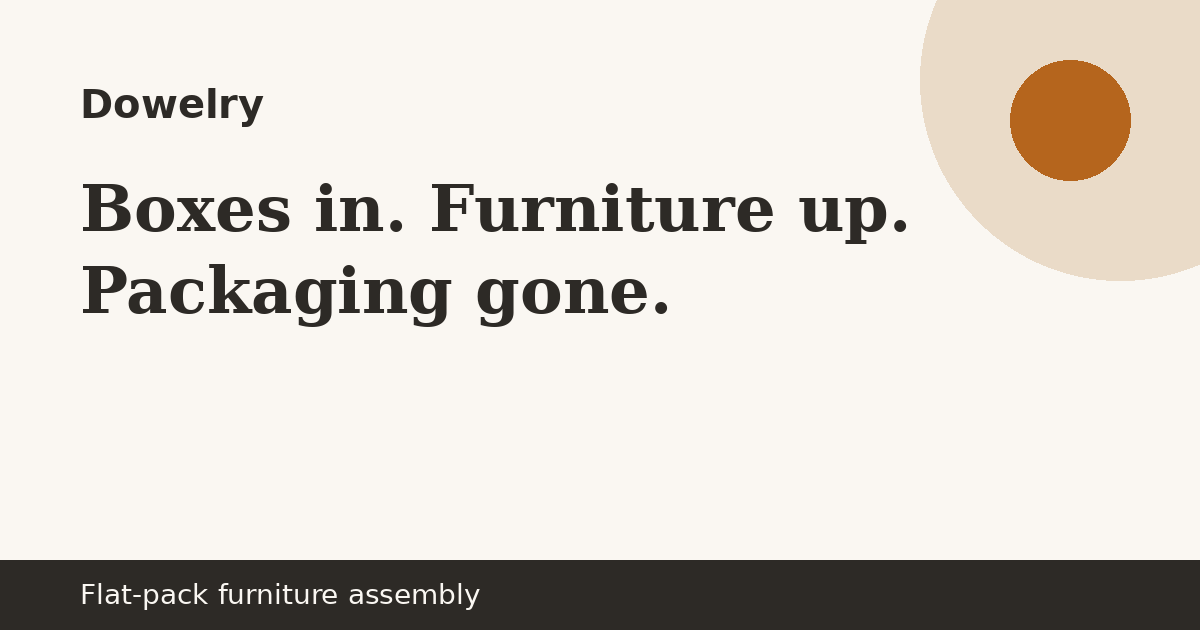
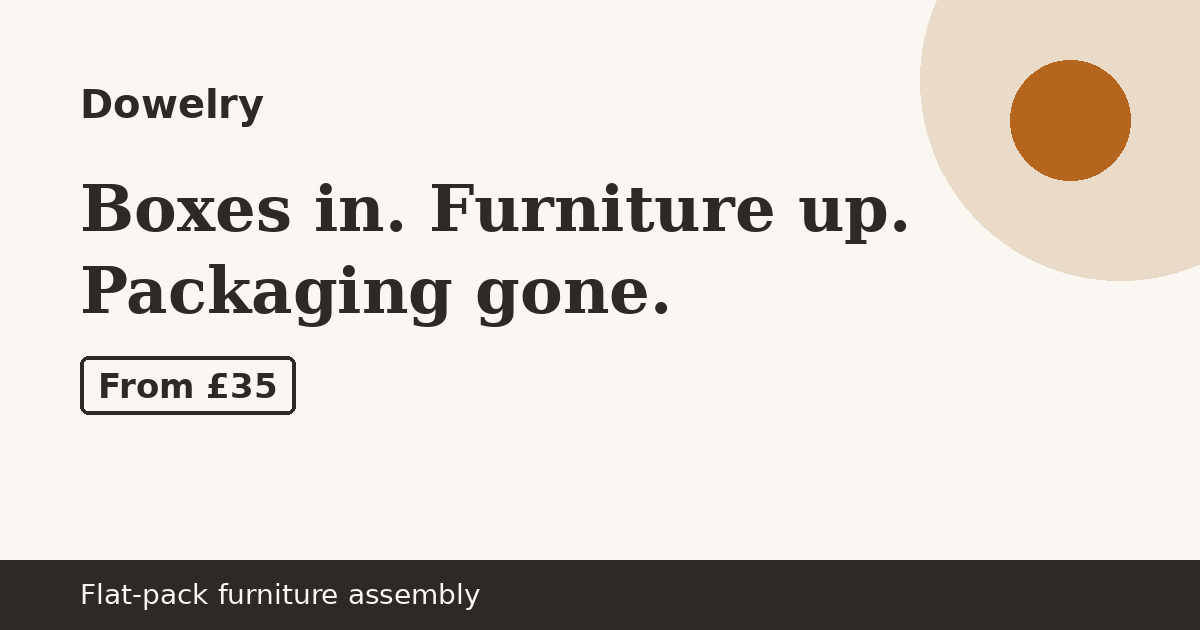
Publish site 2026-10-21 08:27 BST

Changed region(s): [[0.0617, 0.5429, 0.2467, 0.6635]]

diff --git a/index.html b/index.html
@@ -3,7 +3,7 @@
 <head>
 <meta charset="utf-8">
 <meta name="viewport" content="width=device-width, initial-scale=1">
-<meta http-equiv="Content-Security-Policy" content="default-src 'self'; img-src 'self' data: https://localreplyloop.goatcounter.com; style-src 'self'; script-src 'self'; font-src 'self'; connect-src 'self' https://formsubmit.co; form-action 'self'; base-uri 'self'; object-src 'none'">
+<meta http-equiv="Content-Security-Policy" content="default-src 'self'; img-src 'self' data: https://localreplyloop.goatcounter.com; style-src 'self'; script-src 'self'; font-src 'self'; connect-src 'self'; form-action 'self'; base-uri 'self'; object-src 'none'">
 <meta name="referrer" content="strict-origin-when-cross-origin">
 <title>Dowelry: Boxes in. Furniture up. Packaging gone</title>
 <meta name="description" content="Flat-pack assembly at your home, wall-fixing where the furniture requires it, and all packaging taken away.">
@@ -21,21 +21,14 @@
 </head>
 <body>
 <a class="skip" href="#main">Skip to content</a>
-<header class="band"><div class="wrap top"><a class="brand" href="./"><svg viewBox="0 0 64 64" aria-hidden="true" width="34" height="34"><path d="M32 0 64 32 32 64 0 32z" fill="#B5651D"/><text x="32" y="43" text-anchor="middle" font-family="Georgia, serif" font-weight="700" font-size="30" fill="#111111">D</text><circle cx="50" cy="50" r="6" fill="#FAF7F2"/></svg>Dowelry</a><nav aria-label="Primary"><a href="#how">How it works</a><a href="#faq">Questions</a><a href="#contact">Contact</a></nav></div><section class="hero"><div class="wrap"><div><span class="draft">Taking enquiries ahead of launch; no bookings are confirmed yet. We&#x27;ll reply about availability.</span><br><span class="eyebrow">Local service · pre-launch · Flat-pack furniture assembly</span><h1>Boxes in. Furniture up. Packaging gone.</h1><p class="lede">Send us the list or the product links. We quote a fixed price for the lot, build it properly, fix tall pieces to the wall where the instructions say to, and take the cardboard away.</p><div class="ctas"><a class="btn" href="#contact" data-cta="hero">Send an enquiry</a><a class="btn ghost" href="#faq" data-cta="hero-secondary">Questions</a></div></div><div class="art"><svg viewBox="0 0 400 400" role="img" aria-label="Decorative pattern" class="motif" preserveAspectRatio="xMidYMid slice"><rect x="30" y="330" width="58" height="40" fill="#EADBC8"/><rect x="88" y="278" width="58" height="92" fill="#FAF7F2"/><rect x="146" y="226" width="58" height="144" fill="#EADBC8"/><rect x="204" y="174" width="58" height="196" fill="#FAF7F2"/><rect x="262" y="122" width="58" height="248" fill="#EADBC8"/><rect x="320" y="70" width="58" height="300" fill="#B5651D"/></svg></div></div></section></header>
+<header class="band"><div class="wrap top"><a class="brand" href="./"><svg viewBox="0 0 64 64" aria-hidden="true" width="34" height="34"><path d="M32 0 64 32 32 64 0 32z" fill="#B5651D"/><text x="32" y="43" text-anchor="middle" font-family="Georgia, serif" font-weight="700" font-size="30" fill="#111111">D</text><circle cx="50" cy="50" r="6" fill="#FAF7F2"/></svg>Dowelry</a><nav aria-label="Primary"><a href="#how">How it works</a><a href="#faq">Questions</a><a href="#contact">Contact</a></nav></div></header>
 <main id="main">
+<div class="band"><section class="hero"><div class="wrap"><div><span class="draft">Taking enquiries ahead of launch. No bookings are confirmed yet.</span><br><span class="eyebrow">Local service · pre-launch · Flat-pack furniture assembly</span><h1>Boxes in. Furniture up. Packaging gone.</h1><p class="lede">Send us the list or the product links. We quote a fixed price for the lot. Once launched, we&#x27;ll build it properly, fix tall pieces to the wall where the instructions say to, and take the cardboard away.</p><div class="ctas"><a class="btn" href="#contact" data-cta="hero">Send an enquiry</a><a class="btn ghost" href="#faq" data-cta="hero-secondary">Questions</a></div></div><div class="art"><svg viewBox="0 0 400 400" aria-hidden="true" focusable="false" class="motif"><rect x="60" y="90" width="170" height="230" rx="6" fill="#EADBC8"/><rect x="90" y="70" width="170" height="230" rx="6" fill="#FAF7F2"/><circle cx="120" cy="110" r="8" fill="#2D2A26"/><circle cx="230" cy="110" r="8" fill="#2D2A26"/><circle cx="120" cy="260" r="8" fill="#2D2A26"/><circle cx="230" cy="260" r="8" fill="#2D2A26"/><path d="M290 110 v150 h50" fill="none" stroke="#B5651D" stroke-width="16" stroke-linecap="round" stroke-linejoin="round"/><rect x="280" y="300" width="14" height="70" rx="7" fill="#EADBC8"/><rect x="306" y="300" width="14" height="70" rx="7" fill="#B5651D"/><rect x="332" y="300" width="14" height="70" rx="7" fill="#EADBC8"/></svg></div></div></section></div>
 <section class="tint" id="how"><div class="wrap"><span class="eyebrow">How it works</span><h2>Flat-pack assembly at your home, wall-fixing where the furniture requires it, and all packaging taken away.</h2><div class="steps"><div class="step"><h3>Send your list</h3><p>Product names or links are perfect. We check the build times.</p></div><div class="step"><h3>Fixed price</h3><p>One price for everything on the list, packaging removal included.</p></div><div class="step"><h3>Once launched: built and fixed</h3><p>Tall units anchored to the wall where required, then a final check with you.</p></div></div></div></section>
 <section><div class="wrap"><span class="eyebrow">Who it is for</span><h2>For people moving into new homes or flats with boxes of furniture they don&#x27;t want to build.</h2><div class="points"><div class="point"><h3>Anti-tip fixing</h3><p>We fit the wall restraints that come with tall furniture, using fixings suited to your wall.</p></div><div class="point"><h3>Packaging removed</h3><p>No mountain of cardboard left in your hallway.</p></div><div class="point"><h3>Any brand</h3><p>IKEA, Wayfair, Argos, Dunelm and others.</p></div></div></div></section>
-<section class="tint" id="price"><div class="wrap"><span class="eyebrow">Prices</span><div class="pricebox"><p class="price">From £35 for a small item; wardrobes from £70 (guide prices; we quote from your list)</p><p>Guide price. Taking enquiries ahead of launch; no bookings are confirmed yet. We&#x27;ll confirm a fixed price and availability by email. Nothing is sold or paid for on this website.</p></div></div></section>
+<section class="tint" id="price"><div class="wrap"><span class="eyebrow">Prices</span><div class="pricebox"><p class="price">From £35 for a small item; wardrobes from £70 (guide prices; we quote from your list)</p><p>Guide price. Taking enquiries ahead of launch. No bookings are confirmed yet. Price and availability aren’t confirmed yet. Nothing is sold or paid for on this website.</p></div></div></section>
 <section id="faq"><div class="wrap"><span class="eyebrow">Questions</span><h2>Common questions</h2><details><summary>Can you assemble beds and bunk beds?</summary><p>Yes. Bunk beds are checked against the manufacturer&#x27;s safety instructions.</p></details><details><summary>Do you mount TVs?</summary><p>Not at the moment. Furniture assembly only.</p></details><details><summary>What if a part is missing?</summary><p>We stop that item and tell you which part to request. We won&#x27;t improvise a fix that isn&#x27;t safe.</p></details><p class="fine" style="margin-top:18px">Dowelry assembles furniture. We do not do electrical, plumbing or gas work.</p></div></section>
-<section class="tint" id="contact"><div class="wrap contact-grid"><div><span class="eyebrow">Contact</span><h2>Send an enquiry</h2><p>Dowelry is new and run by one person. Every message is read and answered by email, usually within two working days.</p><p>Email: <a href="mailto:localreply+dowelry@agentmail.to">localreply+dowelry@agentmail.to</a></p></div><form class="form" data-contact data-formsubmit="localreply+dowelry@agentmail.to" data-email="localreply+dowelry@agentmail.to" data-subject="Dowelry enquiry" novalidate>
-<div><label for="f-name">Your name</label><input id="f-name" name="name" autocomplete="name" required></div>
-<div><label for="f-email">Email</label><input id="f-email" name="email" type="email" autocomplete="email" required></div>
-<div><label for="f-postcode">Postcode or town</label><input id="f-postcode" name="postcode" autocomplete="postal-code"></div><div><label for="f-plan">About</label><select id="f-plan" name="plan"><option value="One or two items">One or two items</option><option value="A room&#x27;s worth">A room&#x27;s worth</option><option value="Whole move-in">Whole move-in</option></select></div>
-<div><label for="f-message">Message</label><textarea id="f-message" name="message"></textarea></div>
-<p class="draft">Taking enquiries ahead of launch; no bookings are confirmed yet. We&#x27;ll reply about availability.</p><p class="hint">Your message goes to our inbox through FormSubmit (formsubmit.co), our form-delivery provider. If that fails, your own email app opens instead. See our <a href="privacy.html">privacy notice</a>.</p>
-<button class="btn" type="submit">Send an enquiry</button>
-<p class="form-status" role="status" aria-live="polite"></p>
-</form></div></section>
+<section class="tint" id="contact"><div class="wrap contact-grid"><div><span class="eyebrow">Contact</span><h2>Send an enquiry</h2><p>Dowelry is new and run by one person. Messages go to our inbox. We can’t promise a reply or a timeframe yet.</p><p>Email: <a href="mailto:localreply+dowelry@agentmail.to">localreply+dowelry@agentmail.to</a></p></div><div class="form contact-mail"><p><a class="btn" href="mailto:localreply+dowelry@agentmail.to?subject=%5BDowelry%5D%20Enquiry" data-cta="enquire">Email Dowelry</a></p><p class="draft">Taking enquiries ahead of launch. No bookings are confirmed yet.</p><p class="hint">This opens your own email app. Nothing is sent through this website. See our <a href="privacy.html">privacy notice</a>.</p></div></div></section>
 </main><footer><div class="wrap"><p>Operated by a UK sole trader trading as Dowelry. Contact: localreply+dowelry@agentmail.to. Postal address available on written request.</p>
 <p><a href="privacy.html">Privacy</a><a href="terms.html">Terms</a><a href="./#contact">Contact</a></p>
 <p class="fine">Dowelry assembles furniture. We do not do electrical, plumbing or gas work.</p></div></footer>

diff --git a/assets/site.css b/assets/site.css
@@ -1,6 +1,6 @@
 @font-face{font-family:'Source Serif 4';font-weight:600;font-style:normal;font-display:swap;src:url(fonts/source-serif-4-latin-600-normal.woff2) format('woff2')}
 @font-face{font-family:'Source Serif 4';font-weight:700;font-style:normal;font-display:swap;src:url(fonts/source-serif-4-latin-700-normal.woff2) format('woff2')}
-:root{--ink:#2D2A26;--paper:#FAF7F2;--acc:#B5651D;--acc-text:#9A5619;--on-acc:#111111;--soft:#EADBC8;--on-ink:#FAF7F2;--r:16px;--br:16px;--head:'Source Serif 4', Georgia, serif;--body:Georgia, serif}
+:root{--ink:#2D2A26;--paper:#FAF7F2;--acc:#B5651D;--acc-text:#8C4E17;--on-acc:#111111;--acc-btn:#BE6A1E;--soft:#EADBC8;--on-ink:#FAF7F2;--r:16px;--br:16px;--head:'Source Serif 4', Georgia, serif;--body:Georgia, serif}
 *,*::before,*::after{box-sizing:border-box}html{scroll-behavior:smooth}@media (prefers-reduced-motion:reduce){html{scroll-behavior:auto}*{transition:none!important}}
 body{margin:0;font-family:var(--body);color:var(--ink);background:var(--paper);line-height:1.6;font-size:17px;-webkit-font-smoothing:antialiased}
 h1,h2,h3{font-family:var(--head);line-height:1.15;margin:0 0 .5em;letter-spacing:-.01em}h1{font-size:clamp(2.1rem,5vw,3.6rem)}h2{font-size:clamp(1.5rem,3vw,2.2rem)}h3{font-size:1.15rem}
@@ -9,11 +9,11 @@ p{margin:0 0 1em}a{color:var(--ink);text-decoration-color:var(--acc);text-underl
 :focus-visible{outline:3px solid var(--acc);outline-offset:2px}
 .top{display:flex;align-items:center;justify-content:space-between;padding:18px 0;gap:16px}.brand{display:flex;align-items:center;gap:10px;font-family:var(--head);font-weight:700;font-size:1.25rem;text-decoration:none}
 .top nav a{margin-left:18px;font-size:.95rem;text-decoration:none}.top nav a:hover{text-decoration:underline}
-.btn{display:inline-block;background:var(--acc);color:var(--on-acc);padding:13px 22px;border-radius:var(--br);font-weight:600;text-decoration:none;border:2px solid var(--acc);cursor:pointer;font:inherit;font-weight:600}
-.btn:hover{filter:brightness(.94)}.btn.ghost{background:transparent;color:var(--ink);border-color:var(--ink)}
+.btn{display:inline-block;background:var(--acc-btn);color:var(--on-acc);padding:13px 22px;border-radius:var(--br);font-weight:600;text-decoration:none;border:2px solid var(--acc-btn);cursor:pointer;font:inherit;font-weight:600}
+.btn:hover{filter:none;box-shadow:inset 0 0 0 2px currentColor}.btn.ghost{background:transparent;color:var(--ink);border-color:var(--ink)}
 .eyebrow{display:inline-block;font-size:.8rem;letter-spacing:.12em;text-transform:uppercase;font-weight:600;color:var(--acc-text);margin-bottom:12px}
 .hero{padding:48px 0 64px}.hero .lede{font-size:1.15rem;max-width:40em}.ctas{display:flex;gap:12px;flex-wrap:wrap;margin-top:22px}
-.motif{width:100%;height:auto;max-width:420px;display:block}
+.motif{width:100%;height:auto;max-width:420px;display:block}.art{margin:0}
 .draft{display:inline-block;background:var(--soft);border:1px dashed var(--ink);padding:3px 10px;border-radius:999px;font-size:.82rem;font-weight:600;margin-bottom:14px}
 section{padding:56px 0}.tint{background:var(--soft)}
 .steps{display:grid;grid-template-columns:repeat(auto-fit,minmax(220px,1fr));gap:22px;counter-reset:s}
@@ -24,11 +24,11 @@ section{padding:56px 0}.tint{background:var(--soft)}
 details{border-bottom:1px solid color-mix(in srgb,var(--ink) 18%,transparent);padding:14px 0}summary{cursor:pointer;font-weight:600}details p{margin-top:10px}
 .form{display:grid;gap:14px;max-width:620px}.form label{font-weight:600;font-size:.95rem;display:block;margin-bottom:4px}
 .form input,.form textarea,.form select{width:100%;padding:12px;border:1.5px solid color-mix(in srgb,var(--ink) 40%,transparent);border-radius:calc(var(--r)/2);font:inherit;background:#fff;color:#111}
-.form textarea{min-height:120px}.hint,.fine{font-size:.88rem;opacity:.85}.form-status{font-weight:600}
-.contact-grid{display:grid;grid-template-columns:1fr 1.2fr;gap:40px}@media(max-width:800px){.contact-grid{grid-template-columns:1fr}.top nav{display:none}}
+.form textarea{min-height:120px}.hint,.fine{font-size:.88rem}.form-status{font-weight:600}
+.contact-grid{display:grid;grid-template-columns:1fr 1.2fr;gap:40px}@media(max-width:800px){.contact-grid{grid-template-columns:1fr}.top nav a:not([href="#contact"]){display:none}.top nav a{margin-left:0;padding:10px 0;font-weight:600}}
 footer{padding:36px 0 48px;font-size:.9rem;border-top:1px solid color-mix(in srgb,var(--ink) 15%,transparent)}footer a{margin-right:14px}
 .tool{background:var(--paper);border:2px solid var(--ink);border-radius:var(--r);padding:26px;max-width:640px}.tool .row{display:grid;grid-template-columns:1fr 140px;gap:12px;align-items:center;margin-bottom:10px}
 .tool input[type=number]{padding:10px;border:1.5px solid var(--ink);border-radius:8px;font:inherit;width:100%}.result{margin-top:16px;padding:16px;background:var(--soft);border-radius:calc(var(--r)/2);min-height:3em}
 .check h3{margin-top:18px}.check label{display:flex;gap:10px;align-items:flex-start;padding:6px 0}.check input{width:20px;height:20px;accent-color:var(--acc)}
 .legal{max-width:760px}.legal h2{font-size:1.3rem;margin-top:1.6em}
-.band{background:var(--ink);color:var(--on-ink)}.band a{color:var(--on-ink)}.band .btn.ghost{color:var(--on-ink);border-color:var(--on-ink)}.band .eyebrow{color:var(--on-ink)}.hero .wrap{display:grid;grid-template-columns:1.2fr .8fr;gap:40px;align-items:center}@media(max-width:800px){.hero .wrap{grid-template-columns:1fr}}.band .draft{color:var(--ink)}
+.band{background:var(--ink);color:var(--on-ink)}.band a{color:var(--on-ink)}.band .btn.ghost{color:var(--on-ink);border-color:var(--on-ink)}.band .btn:not(.ghost){color:var(--on-acc)}.band .eyebrow{color:var(--on-ink)}.hero .wrap{display:grid;grid-template-columns:1.2fr .8fr;gap:40px;align-items:center}@media(max-width:800px){.hero .wrap{grid-template-columns:1fr}}.band .draft{color:var(--ink)}

diff --git a/privacy.html b/privacy.html
@@ -3,7 +3,7 @@
 <head>
 <meta charset="utf-8">
 <meta name="viewport" content="width=device-width, initial-scale=1">
-<meta http-equiv="Content-Security-Policy" content="default-src 'self'; img-src 'self' data: https://localreplyloop.goatcounter.com; style-src 'self'; script-src 'self'; font-src 'self'; connect-src 'self' https://formsubmit.co; form-action 'self'; base-uri 'self'; object-src 'none'">
+<meta http-equiv="Content-Security-Policy" content="default-src 'self'; img-src 'self' data: https://localreplyloop.goatcounter.com; style-src 'self'; script-src 'self'; font-src 'self'; connect-src 'self'; form-action 'self'; base-uri 'self'; object-src 'none'">
 <meta name="referrer" content="strict-origin-when-cross-origin">
 <title>Privacy notice | Dowelry</title>
 <meta name="description" content="Privacy notice for Dowelry.">
@@ -21,13 +21,13 @@
 </head>
 <body>
 <a class="skip" href="#main">Skip to content</a>
-<header><div class="wrap top"><a class="brand" href="./"><svg viewBox="0 0 64 64" aria-hidden="true" width="34" height="34"><path d="M32 0 64 32 32 64 0 32z" fill="#2D2A26"/><text x="32" y="43" text-anchor="middle" font-family="Georgia, serif" font-weight="700" font-size="30" fill="#FAF7F2">D</text><circle cx="50" cy="50" r="6" fill="#B5651D"/></svg>Dowelry</a><nav aria-label="Primary"><a href="#how">How it works</a><a href="#faq">Questions</a><a href="#contact">Contact</a></nav></div></header><main id="main"><section><div class="wrap legal"><h1>Privacy notice</h1><p class="fine">Last updated 19 October 2026</p>
+<header><div class="wrap top"><a class="brand" href="./"><svg viewBox="0 0 64 64" aria-hidden="true" width="34" height="34"><path d="M32 0 64 32 32 64 0 32z" fill="#2D2A26"/><text x="32" y="43" text-anchor="middle" font-family="Georgia, serif" font-weight="700" font-size="30" fill="#FAF7F2">D</text><circle cx="50" cy="50" r="6" fill="#B5651D"/></svg>Dowelry</a><nav aria-label="Primary"><a href="#how">How it works</a><a href="#faq">Questions</a><a href="#contact">Contact</a></nav></div></header><main id="main"><section><div class="wrap legal"><h1>Privacy notice</h1><p class="fine">Last updated 20 October 2026</p>
 <p><span>Operated by a UK sole trader trading as Dowelry. Contact: localreply+dowelry@agentmail.to. Postal address available on written request.</span> We are the controller for the personal data described here. For anything in this notice, email <a href="mailto:localreply+dowelry@agentmail.to">localreply+dowelry@agentmail.to</a> with “Dowelry” in the subject line.</p>
-<h2>What we collect</h2><p>If you use the form or email us, we receive your name, email address, anything you write in your message and, if you give it, your postcode or town. We use it only to reply to you and, if you ask for it, to deal with your enquiry.</p>
+<h2>What we collect</h2><p>If you email us, we receive your name, email address, anything you write in your message and, if you give it, your postcode or town. We use it only to reply to you and, if you ask for it, to deal with your enquiry.</p>
 <h2>Lawful basis</h2><p>Replying to an enquiry you send us is in our legitimate interests, or steps taken at your request before any agreement (UK GDPR Article 6(1)(f) and 6(1)(b)).</p>
-<h2>Who processes it for us</h2><p>FormSubmit (formsubmit.co) delivers form messages to our inbox. AgentMail (agentmail.to) hosts the inbox. GitHub Pages hosts this website and may log technical data such as IP addresses for security. Some of these providers process data outside the UK under their own safeguards.</p>
+<h2>Who processes it for us</h2><p>AgentMail (agentmail.to) hosts our inbox. GitHub Pages hosts this website and may log technical data such as IP addresses for security. Some of these providers process data outside the UK under their own safeguards.</p>
 <h2>Cookies and analytics</h2><p>We set no cookies. We count page views with GoatCounter, which records the page, referrer and screen size but no cookies and no personal profile. It does not run if your browser sends Do Not Track or Global Privacy Control.</p>
-<h2>How long we keep it</h2><p>We keep enquiry emails for up to 12 months after our last contact, unless you become a customer, in which case we keep records as the law requires.</p>
+<h2>How long we keep it</h2><p>We delete enquiry and order data 30 days after our last contact or after delivery. We keep only the basic order record that tax law requires.</p>
 <h2>Your rights</h2><p>You can ask for a copy of your data, ask us to correct or delete it, or object to how we use it, by emailing <a href="mailto:localreply+dowelry@agentmail.to">localreply+dowelry@agentmail.to</a>. You can complain to the Information Commissioner's Office (ico.org.uk).</p></div></section></main><footer><div class="wrap"><p>Operated by a UK sole trader trading as Dowelry. Contact: localreply+dowelry@agentmail.to. Postal address available on written request.</p>
 <p><a href="privacy.html">Privacy</a><a href="terms.html">Terms</a><a href="./#contact">Contact</a></p>
 <p class="fine">Dowelry assembles furniture. We do not do electrical, plumbing or gas work.</p></div></footer>

diff --git a/_shared/kit.js b/_shared/kit.js
@@ -69,24 +69,8 @@
     form.addEventListener("submit", function (e) {
       e.preventDefault();
       if (!form.reportValidity()) return;
-      // 2026-10-14: if data-formsubmit is set, deliver via FormSubmit.co straight to the brand inbox; mailto stays as fallback.
-      var fsTok = form.getAttribute("data-formsubmit");
-      if (fsTok && !form.__fsFallback && window.fetch) {
-        var fd = new FormData(form), payload = {}, st = form.querySelector("[role=status]");
-        fd.forEach(function (v, k) { if (k !== "consent") payload[k] = String(v); });
-        payload._subject = (form.getAttribute("data-subject") || "Enquiry") + (payload.business ? " — " + payload.business : "");
-        if (payload.email) payload._replyto = payload.email;
-        payload._captcha = "false"; payload._template = "table";
-        fetch("https://formsubmit.co/ajax/" + fsTok, { method: "POST", headers: { "Content-Type": "application/json", "Accept": "application/json" }, body: JSON.stringify(payload) })
-          .then(function (r) { return r.json(); })
-          .then(function (j) {
-            if (String(j.success) !== "true") throw new Error("fs");
-            if (st) { st.textContent = "Thanks" + (payload.name ? ", " + payload.name.trim().split(" ")[0] : "") + " — your message has been sent. We reply by email."; st.classList.add("is-visible"); }
-            track("contact_sent", { plan: payload.plan || null }); form.reset();
-          })
-          .catch(function () { form.__fsFallback = true; if (st) { st.textContent = "Sending didn't work — opening your email app instead."; st.classList.add("is-visible"); } form.requestSubmit ? form.requestSubmit() : form.dispatchEvent(new Event("submit", { cancelable: true })); });
-        return;
-      }
+      // The form only composes an email
+      // in the visitor's own mail app; nothing is sent through any third-party form processor.
       var to = form.getAttribute("data-email") || cfg.contactEmail;
       var data = new FormData(form);
       var name = (data.get("name") || "").toString().trim();

diff --git a/_shared/kit.css b/_shared/kit.css
@@ -73,6 +73,7 @@ p { margin: 0; }
 .mobile-nav.is-open { display: block; }
 .mobile-nav a { display: flex; align-items: center; min-height: 52px; padding: 0 1.25rem; color: var(--text); text-decoration: none; font-weight: 500; border-bottom: 1px solid var(--line); }
 .mobile-nav .btn { margin: 1rem 1.25rem 1.25rem; display: flex; }
+.mobile-nav .btn--primary, .mobile-nav .btn--primary:hover { color: #fff; }
 @media (min-width: 60rem) {
   .nav { display: flex; }
   .site-header .header-cta { display: inline-flex; margin-left: .75rem; }
@@ -329,3 +330,8 @@ html[data-paused="true"] [data-cta="checkout"] { pointer-events: none; opacity: 
 @media (min-width: 60rem) { .pricing.pricing--single { grid-template-columns: 1fr; } }
 .tier-more { max-width: 64rem; margin: 1.25rem auto 0; text-align: center; color: var(--muted); font-size: .9375rem; line-height: 1.6; }
 .tier-more a { font-weight: 600; white-space: nowrap; }
+
+.site-header .header-link { display: inline-flex; color: var(--ink); font-weight: 600; text-decoration: underline; text-underline-offset: .2em; min-height: 44px; align-items: center; padding: 0 .25rem; }
+@media (max-width: 59.99rem) { .site-header .header-link { display: none; } }
+.btn-row .text-link { display: inline-flex; align-items: center; min-height: 48px; padding: 0 .25rem; color: var(--ink); font-weight: 600; text-decoration: underline; text-underline-offset: .2em; }
+.btn-row .text-link:hover, .site-header .header-link:hover { color: var(--accent-strong); }

diff --git a/404.html b/404.html
@@ -3,7 +3,7 @@
 <head>
 <meta charset="utf-8">
 <meta name="viewport" content="width=device-width, initial-scale=1">
-<meta http-equiv="Content-Security-Policy" content="default-src 'self'; img-src 'self' data: https://localreplyloop.goatcounter.com; style-src 'self'; script-src 'self'; font-src 'self'; connect-src 'self' https://formsubmit.co; form-action 'self'; base-uri 'self'; object-src 'none'">
+<meta http-equiv="Content-Security-Policy" content="default-src 'self'; img-src 'self' data: https://localreplyloop.goatcounter.com; style-src 'self'; script-src 'self'; font-src 'self'; connect-src 'self'; form-action 'self'; base-uri 'self'; object-src 'none'">
 <meta name="referrer" content="strict-origin-when-cross-origin">
 <title>Page not found | Dowelry</title>
 <meta name="description" content="Page not found for Dowelry.">

diff --git a/terms.html b/terms.html
@@ -3,7 +3,7 @@
 <head>
 <meta charset="utf-8">
 <meta name="viewport" content="width=device-width, initial-scale=1">
-<meta http-equiv="Content-Security-Policy" content="default-src 'self'; img-src 'self' data: https://localreplyloop.goatcounter.com; style-src 'self'; script-src 'self'; font-src 'self'; connect-src 'self' https://formsubmit.co; form-action 'self'; base-uri 'self'; object-src 'none'">
+<meta http-equiv="Content-Security-Policy" content="default-src 'self'; img-src 'self' data: https://localreplyloop.goatcounter.com; style-src 'self'; script-src 'self'; font-src 'self'; connect-src 'self'; form-action 'self'; base-uri 'self'; object-src 'none'">
 <meta name="referrer" content="strict-origin-when-cross-origin">
 <title>Terms of use | Dowelry</title>
 <meta name="description" content="Terms of use for Dowelry.">
